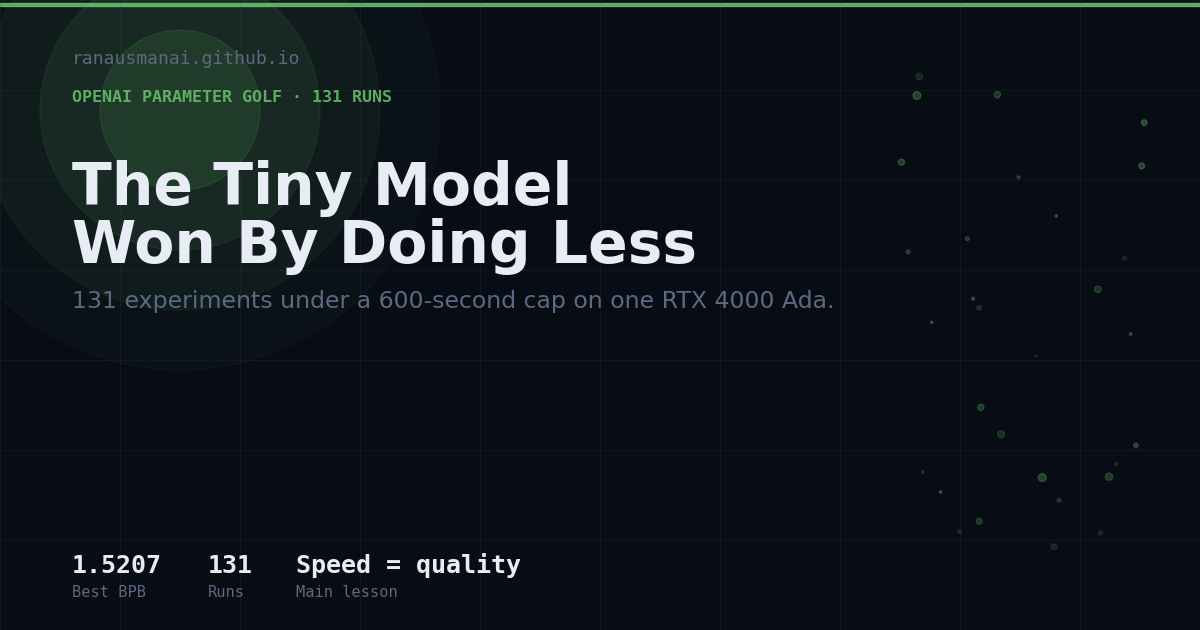
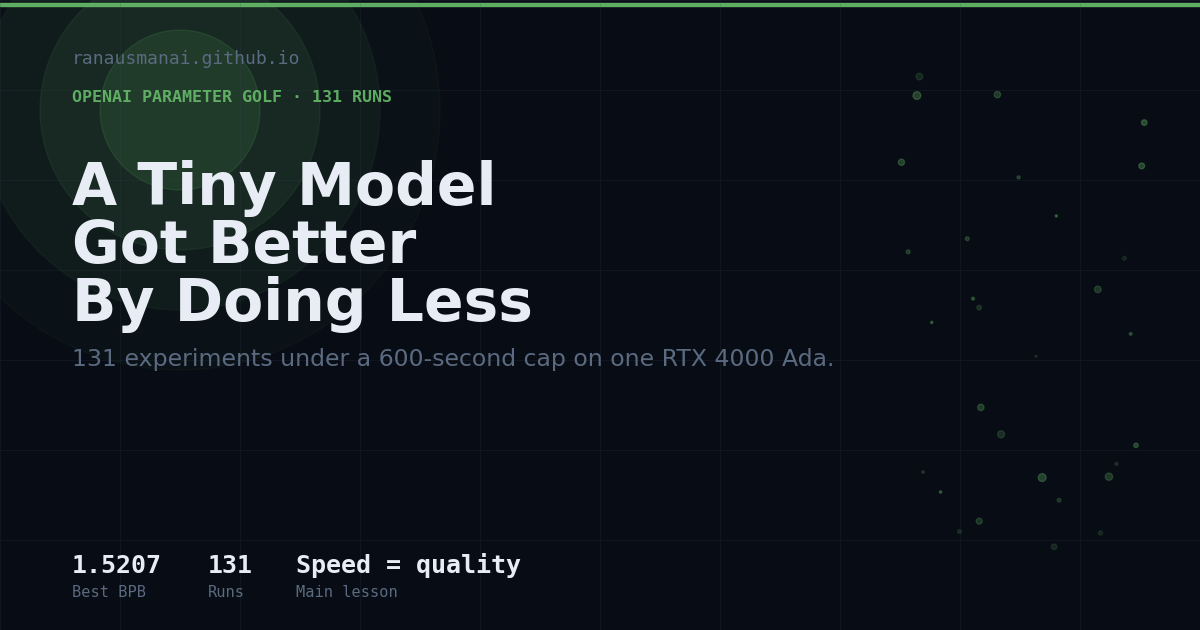
Refine parameter golf post wording

Changed region(s): [[0.0617, 0.2413, 0.6783, 0.6032]]

diff --git a/posts/parameter-golf.html b/posts/parameter-golf.html
@@ -3,11 +3,11 @@
 <head>
 <meta charset="UTF-8">
 <meta name="viewport" content="width=device-width, initial-scale=1.0">
-<title>Parameter Golf: The Tiny Model That Won By Doing Less — ranausmanai</title>
+<title>Parameter Golf: How a Tiny Model Got Better By Doing Less — ranausmanai</title>
 <meta name="description" content="131 experiments, one RTX 4000 Ada, and a hard 600-second cap. The biggest gains came from making a tiny language model simpler, faster, and more decoder-heavy.">
 
 <!-- Open Graph -->
-<meta property="og:title" content="Parameter Golf: The Tiny Model That Won By Doing Less">
+<meta property="og:title" content="Parameter Golf: How a Tiny Model Got Better By Doing Less">
 <meta property="og:description" content="131 experiments, one RTX 4000 Ada, and a hard 600-second cap. The biggest gains came from making a tiny language model simpler, faster, and more decoder-heavy.">
 <meta property="og:image" content="https://ranausmanai.github.io/og/parameter-golf.png">
 <meta property="og:url" content="https://ranausmanai.github.io/posts/parameter-golf.html">
@@ -15,7 +15,7 @@
 
 <!-- Twitter Card -->
 <meta name="twitter:card" content="summary_large_image">
-<meta name="twitter:title" content="Parameter Golf: The Tiny Model That Won By Doing Less">
+<meta name="twitter:title" content="Parameter Golf: How a Tiny Model Got Better By Doing Less">
 <meta name="twitter:description" content="131 experiments, one RTX 4000 Ada, and a hard 600-second cap. The biggest gains came from making a tiny language model simpler, faster, and more decoder-heavy.">
 <meta name="twitter:image" content="https://ranausmanai.github.io/og/parameter-golf.png">
 
@@ -135,7 +135,7 @@ footer a:hover{color:var(--text);}
   <canvas id="heroBg"></canvas>
   <div class="hero-inner">
     <div class="eyebrow">OpenAI Parameter Golf · 131 Experiments</div>
-    <h1>The tiny model that won<br>got better by doing <em>less</em>.</h1>
+    <h1>A tiny model got better<br>by doing <em>less</em>.</h1>
     <p class="hero-desc">I spent 131 runs tuning a 9-layer language model under a hard 600-second cap on a single RTX 4000 Ada. The biggest gains did not come from clever regularizers. They came from making the model simpler, faster, and more decoder-heavy.</p>
     <div class="hero-pills">
       <span class="pill" style="border-color:rgba(102,187,106,.35);color:var(--accent)">131 runs</span>
@@ -209,7 +209,7 @@ Weight decay schedule 0.04   1.6569
 
 <div class="chapter reveal">
   <div class="tag">What Worked</div>
-  <h2>The winners all pushed in the same direction.</h2>
+  <h2>The best changes all pushed in the same direction.</h2>
   <p class="lead">The best changes did not feel random. They all made the model spend more of its ten minutes on useful learning instead of overhead.</p>
 
   <div class="data-table">
@@ -290,7 +290,7 @@ Weight decay schedule 0.04   1.6569
 <div class="chapter reveal">
   <div class="tag">Best Run</div>
   <h2>The final configuration is not magical. It is just disciplined.</h2>
-  <p class="lead">By the end, the winning recipe looked less like a bag of hacks and more like a coherent answer to the constraint.</p>
+  <p class="lead">By the end, the best recipe in this study looked less like a bag of hacks and more like a coherent answer to the constraint.</p>
 
   <div class="terminal">
     <div class="terminal-bar">
@@ -314,7 +314,7 @@ TIE_EMBEDDINGS=0
 # 1.5207 BPB in 600 seconds</pre>
   </div>
 
-  <p class="body-text">That run finished at roughly 14MB after int8 + zlib compression, which left around 2MB of headroom under the 16MB budget. The model did not win by becoming huge, exotic, or fragile. It won by wasting less of its budget.</p>
+  <p class="body-text">That run finished at roughly 14MB after int8 + zlib compression, which left around 2MB of headroom under the 16MB budget. The model did not improve by becoming huge, exotic, or fragile. It improved by wasting less of its budget.</p>
 </div>
 
 <div class="chapter reveal">

diff --git a/index.html b/index.html
@@ -131,7 +131,7 @@ footer a{color:var(--dim);text-decoration:none;}footer a:hover{color:var(--text)
       <span class="post-tag" style="color:var(--teal);border-color:rgba(38,198,218,.3);">Parameter Golf</span>
       <span class="post-date">April 2026</span>
     </div>
-    <h2>Parameter Golf: The Tiny Model That Won By Doing Less</h2>
+    <h2>Parameter Golf: How a Tiny Model Got Better By Doing Less</h2>
     <p class="post-excerpt">I ran 131 experiments on a tiny language model under a hard 600-second training cap. The big gains did not come from clever regularizers. They came from making the model simpler, faster, more decoder-heavy, and less tied together.</p>
     <div class="post-stats">
       <div class="stat">Runs <span>131</span></div>

diff --git a/make_og_images.py b/make_og_images.py
@@ -103,7 +103,7 @@ make_og("home.png",
 
 make_og("parameter-golf.png",
     eyebrow="OpenAI Parameter Golf · 131 Runs",
-    title_lines=["The Tiny Model", "Won By Doing Less"],
+    title_lines=["A Tiny Model", "Got Better", "By Doing Less"],
     subtitle="131 experiments under a 600-second cap on one RTX 4000 Ada.",
     accent="#66bb6a",
     stats=[("Best BPB", "1.5207"), ("Runs", "131"), ("Main lesson", "Speed = quality")],
